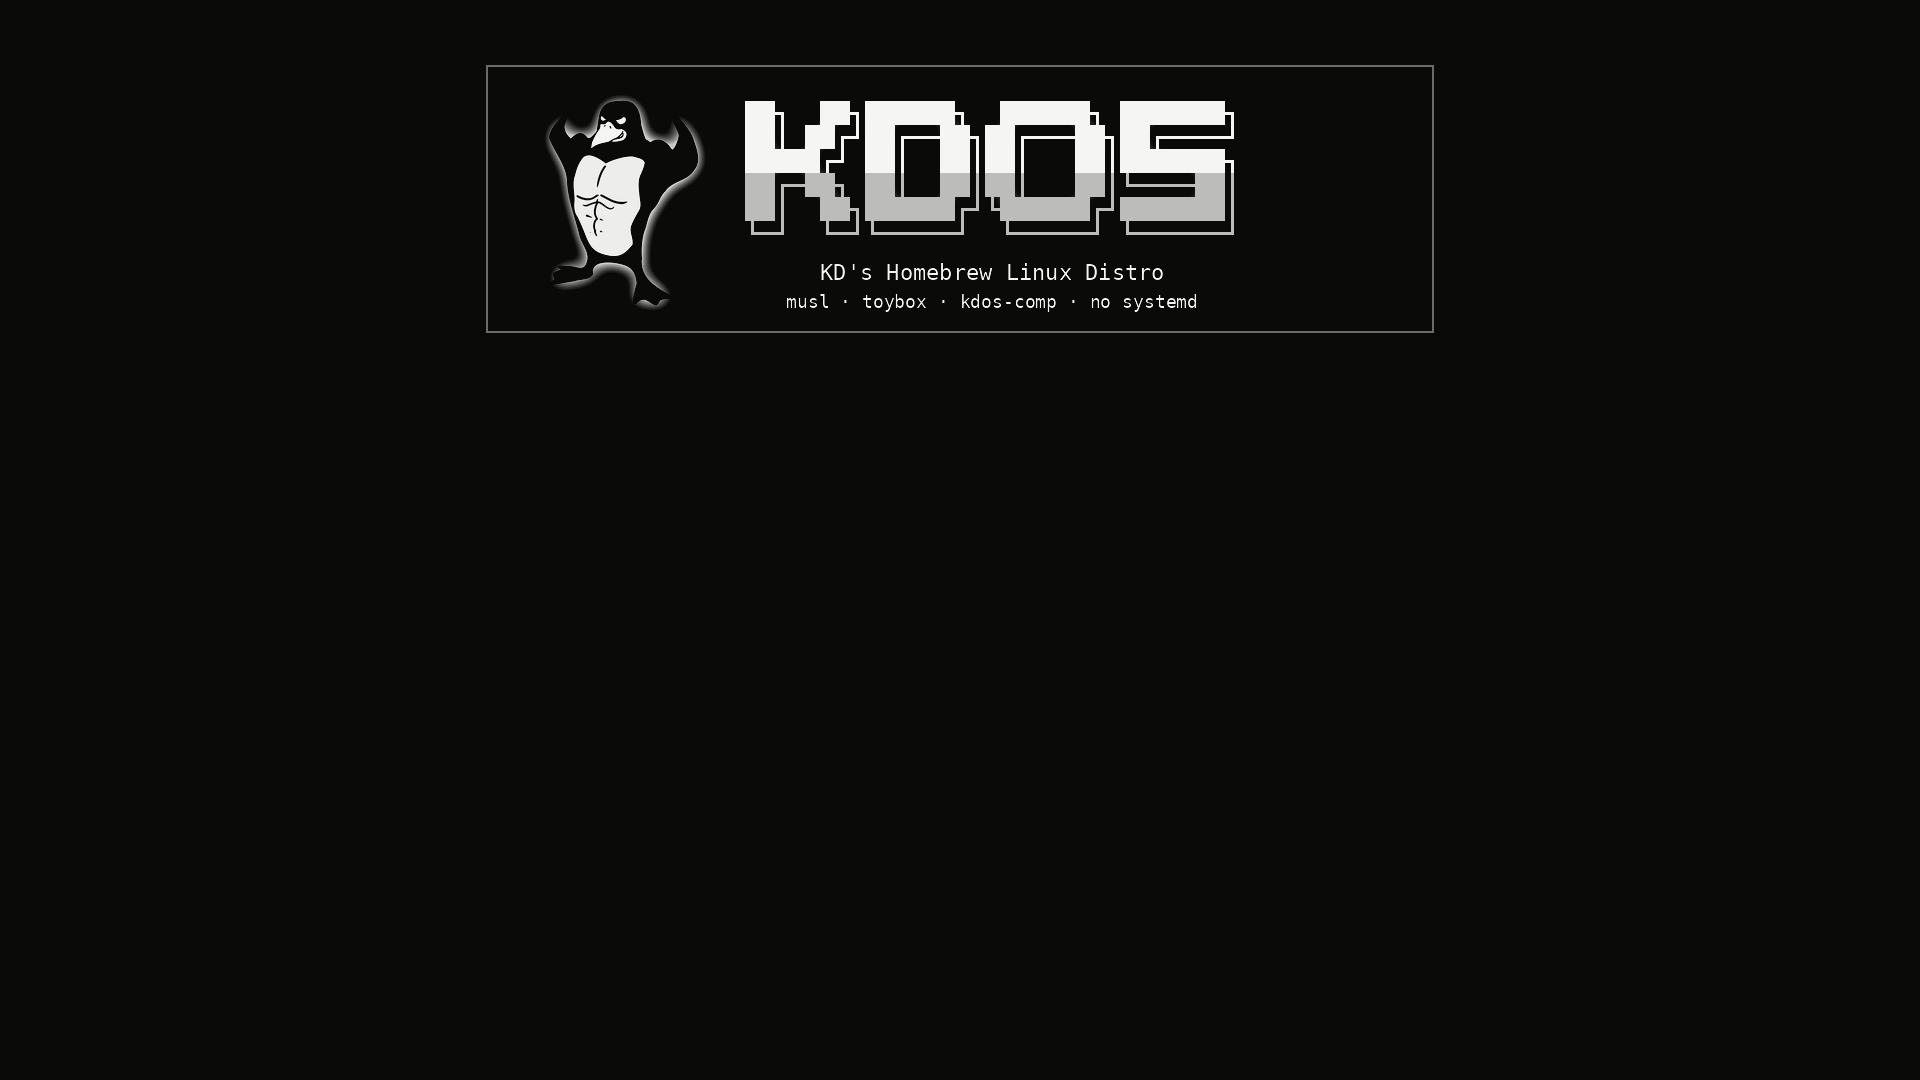
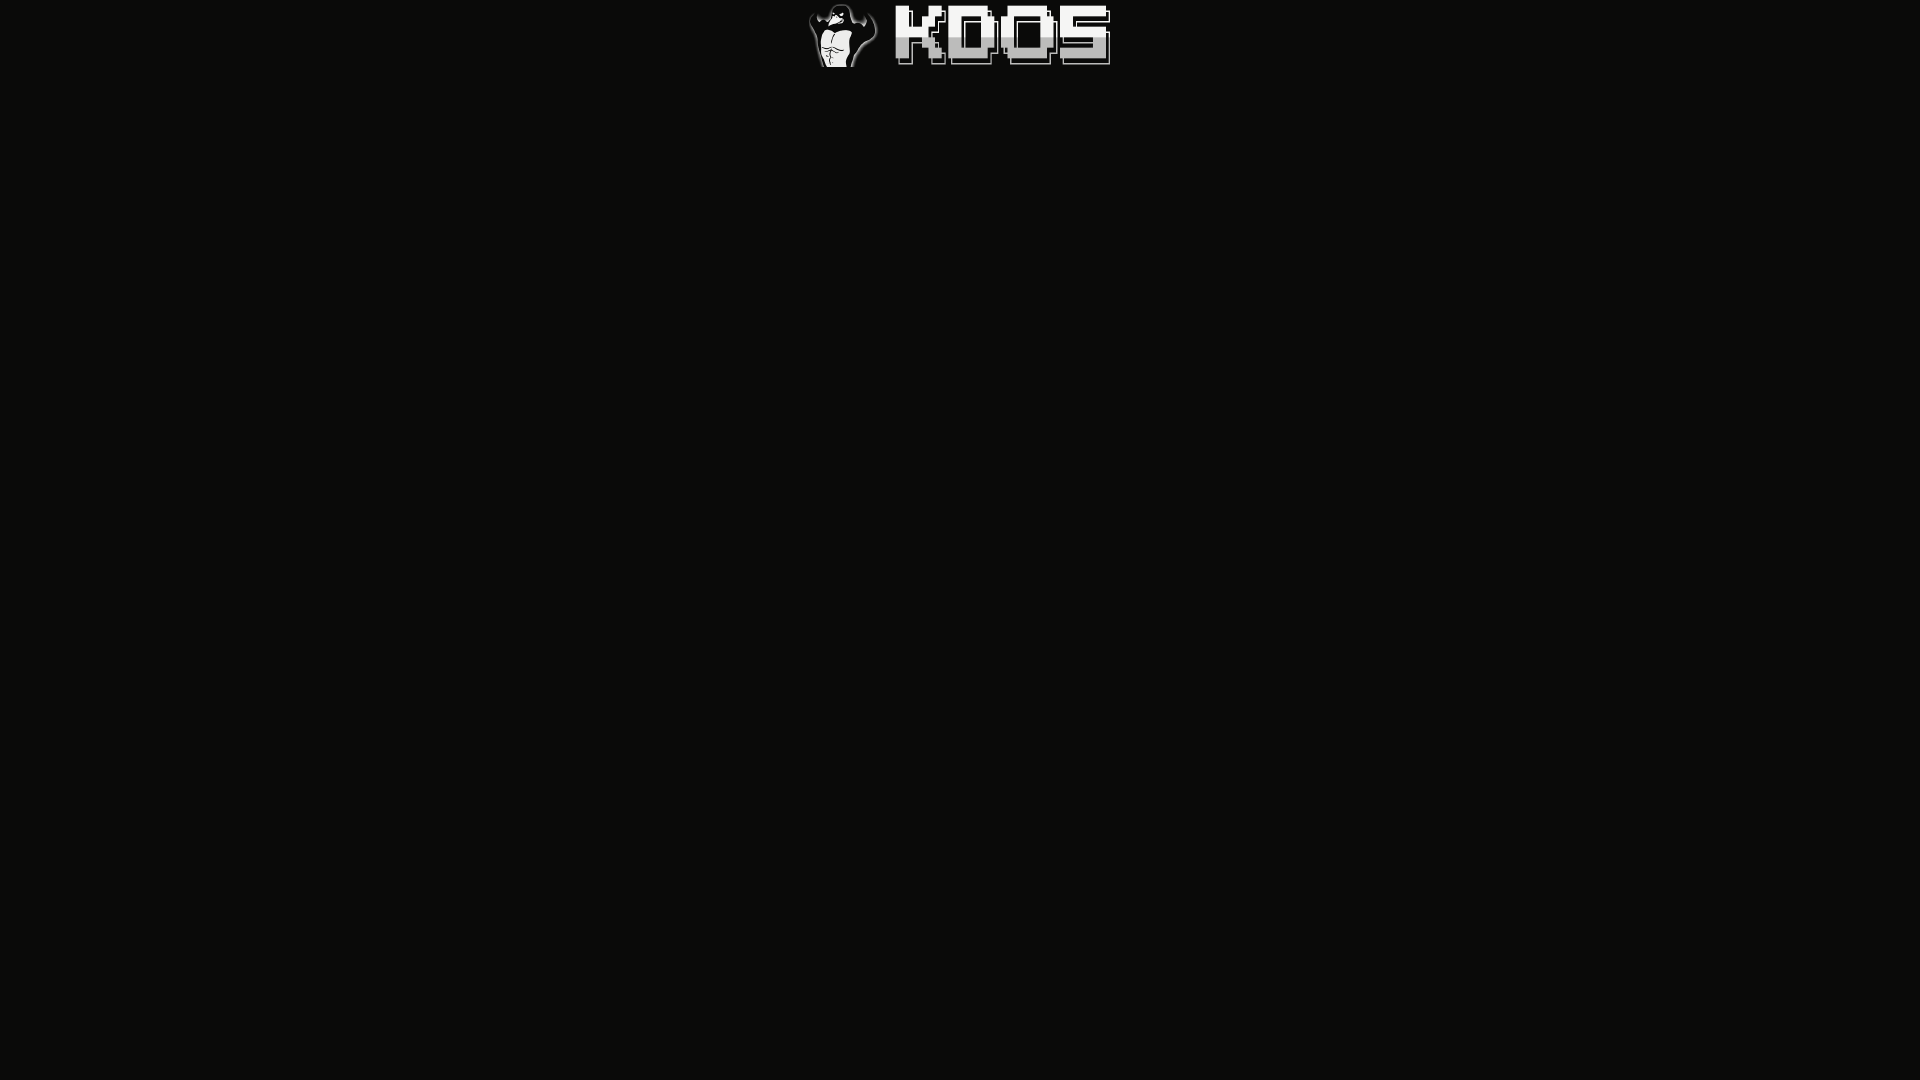
boot fixes

diff --git a/src/packages/kdos-splash/genbackdrop.py b/src/packages/kdos-splash/genbackdrop.py
@@ -31,30 +31,25 @@
 # is one with no hue of its own. Under bone it reads as texture; under phosphor
 # the menu's own green sits on it and it still reads as texture.
 #
-# THE MENU PLATE IS TRANSPARENT, SO THIS PICTURE IS THE WHOLE SCREEN.
-# `term_background` carries a transparency byte and it is set to `ff` — see
-# kcol_limine_conf(). An OPAQUE plate covers everything but `term_margin`, so
-# the wordmark had to squeeze into a hundred-pixel band and the plate's edge
-# drew a visible rectangle around the menu wherever the band was not exactly
-# the plate's colour. Transparent, there is no plate and no rectangle: the
-# entries are drawn straight onto this, and the wordmark can be as large as
-# the space above them allows.
+# THE MENU PLATE IS OPAQUE, SO ONLY THE MARGIN BAND IS EVER SEEN.
+# `term_background` has no transparency and `term_margin` is 100 — see
+# kcol_limine_conf(). Transparent, the artwork could be any size, but Limine
+# prints `linux: Loading kernel …` at the terminal's own origin the moment an
+# entry is picked and those lines then land across it. Opaque, the loading
+# text can only appear inside the plate, and the price is that everything
+# here must fit the margin.
 #
-# WHICH IS WHY THE FIELD IS FLAT. Every gradient, vignette and texture that
-# was here before existed to make a hundred-pixel border look deliberate. With
-# no border there is nothing for them to do, and what they actually
-# contributed was banding in the corners: the wordmark folded onto itself
-# reads as grain at full size and as smudges at a sixth of it. A flat floor
-# cannot band.
+# WHICH FIXES THE HEIGHT AT 6.3% OF THE SCREEN. The wallpaper is `stretched`,
+# so this is a FRACTION while the margin is PIXELS: the artwork has to clear
+# 100 pixels on the tallest screen it will be seen on, not on the one it was
+# drawn for. 6.3% is 68 pixels at 1080 lines and 90 at 1440 — the largest
+# resolution the tree references — and clips above about 1580. There is no
+# placement that both clears the loading text and fits every resolution,
+# which is why the plate is opaque rather than the artwork being moved.
 #
-# THE BANNER IS PLACED AT 1:1 AND NEVER RESAMPLED. It is PIXEL ART — the
-# wordmark is chunky blocks with hard edges — and resampling pixel art with a
-# photographic filter is what makes the blocks come out different widths with
-# soft jagged edges. SIZE is 1920x1080 because that is what `KDOS_RES`
-# defaults to, so on the common screen Limine's `stretched` is 1:1 and every
-# block lands on the pixel it was drawn on. Other resolutions are stretched
-# and soften; nothing can be done about that from here, and an artwork that is
-# right at one resolution beats one that is wrong at all of them.
+# AND THE CAPTIONS ARE DROPPED. At this height the two lines of small print
+# are three pixels tall: including them costs the wordmark a third of its own
+# height to render something nobody can read.
 #
 # THE INK IS THE MAX CHANNEL, NOT THE LUMINANCE. The wordmark is phosphor
 # green — (57, 255, 20) — which Rec.601 puts at 169 while the penguin's white
@@ -64,10 +59,15 @@
 #
 # AND THE BLACK POINT IS 64, WHICH IS WHAT STOPS THE RECTANGLE. The banner has
 # an ambient green glow over the whole image: its corner pixel is (18, 64, 31),
-# not black. Composited onto the floor, that glow lifts the banner's whole area
-# above the field and draws a visible box around it. 64 is measured — it is the
-# 95th percentile of the border ring, and subtracting it takes the border to
-# exactly zero while costing 2% of the strong ink.
+# not black. Composited onto the floor, that glow lifts the artwork's whole
+# area above the field and draws a visible box around it. 64 is measured — it
+# is the 95th percentile of the border ring, and subtracting it takes the
+# border to exactly zero while costing 2% of the strong ink.
+#
+# THE DOWNSCALE IS `BOX`, WHICH IS AREA AVERAGING. The wordmark is pixel art;
+# LANCZOS on it gives blocks of different widths and soft jagged edges, which
+# is what a photographic filter does to hard edges. Averaging whole areas is
+# the right operation going DOWN, and going down is all this does.
 
 # IT IS ACHROMATIC. Limine cannot retint a wallpaper, so this one file sits
 # under every accent and a green penguin would be green under amber.
@@ -98,21 +98,18 @@ SIZE = (1920, 1080)
 # rather than a picture with a terminal sitting on it.
 FLOOR = (10, 10, 9)
 
-# THE WHOLE BANNER, frame and captions and all. It is one designed piece and
-# cropping it to the wordmark threw away the two lines that say what this is.
-CROP = None
+# THE INK OF THE PENGUIN AND THE LETTERS, measured in the 960x280 source.
+# The ruled frame and the two caption lines are left out — see the header.
+CROP = (67, 38, 754, 182)
 
 # What the border ring measures at, and what is subtracted to take it to zero.
-# See the header: below this the banner draws a box on the field.
 BLACK_POINT = 64
 
-# Where the banner's top edge sits, as a fraction of the height. Fractions
-# because the wallpaper is `stretched`, so this holds at every resolution.
-#
-# THE ONE RULE IS THAT NOTHING REACHES THE MIDDLE. Limine centres the entry
-# list vertically whatever the margin is; at 5.5% the banner ends at 31% and
-# the list starts at 50%.
-BAND_TOP = 0.055
+# Where the artwork sits and how tall it is, as fractions of the height.
+# BAND_TOP + BAND_H must stay under `term_margin`/height on the tallest screen
+# the menu will be seen on, or the plate draws over the artwork.
+BAND_TOP = 0.004
+BAND_H = 0.059
 
 # The hero's brightest pixel. Not 255: pure white is structure — an outline, a
 # highlight — everywhere else in this distribution, and a wordmark that reaches
@@ -121,28 +118,24 @@ HERO_PEAK = 235
 
 
 def build() -> Image.Image:
-    src = Image.open(SRC).convert("RGB")
-    if CROP:
-        src = src.crop(CROP)
+    src = Image.open(SRC).convert("RGB").crop(CROP)
 
     # The largest channel, floored at the border's own level and stretched to
-    # the peak — see the header for why each of those three is not the obvious
-    # choice.
-    # int32, NOT int16: the stretch multiplies by HERO_PEAK before dividing,
-    # and 191 * 235 overflows a signed 16-bit lane into negative values that
-    # come back as garbage through the uint8 cast. The peak lands at 181
-    # instead of 245 and the whole banner is dim.
+    # the peak. int32, NOT int16: the stretch multiplies by HERO_PEAK before
+    # dividing, and 191 * 235 overflows a signed 16-bit lane into negative
+    # values that come back as garbage through the uint8 cast — the peak lands
+    # at 181 instead of 245 and the whole banner is dim.
     a = np.array(src).max(axis=2).astype(np.int32)
     a = np.clip(a - BLACK_POINT, 0, None)
     a = (a * HERO_PEAK) // (255 - BLACK_POINT)
     art = Image.fromarray(a.astype(np.uint8), "L")
 
+    bh = max(1, int(SIZE[1] * BAND_H))
+    bw = max(1, round(bh * art.size[0] / art.size[1]))
+    art = art.resize((bw, bh), Image.BOX)
+
     lum = Image.new("L", SIZE, 0)
-    w, h = art.size
-    if w > SIZE[0] or h > SIZE[1]:
-        raise SystemExit("genbackdrop: the banner does not fit the canvas")
-    # PASTED, NOT RESIZED. See the header.
-    lum.paste(art, ((SIZE[0] - w) // 2, int(SIZE[1] * BAND_TOP)))
+    lum.paste(art, ((SIZE[0] - bw) // 2, int(SIZE[1] * BAND_TOP)))
 
     # ADDED TO THE FLOOR RATHER THAN PASTED OVER IT, so the artwork can only
     # ever contribute light and the field stays exactly one colour everywhere

diff --git a/src/libs/libkcolor/kcolor.c b/src/libs/libkcolor/kcolor.c
@@ -113,26 +113,27 @@ int kcol_limine_conf(const KcolScheme *sc, char *buf, size_t cap)
 		"interface_help_colour_bright: %s\n"
 		"backdrop: %s\n"
 		/*
-		 * `ff` — FULLY TRANSPARENT, AND THE PLATE IS GONE.
+		 * `00` — OPAQUE, AND THAT IS WHAT KEEPS THE ARTWORK CLEAN.
 		 *
-		 * The leading byte is transparency. Opaque (`00`) the plate
-		 * covers everything inside `term_margin`, which does two bad
-		 * things at once: the wordmark has to squeeze into the margin
-		 * band, and the plate's edge draws a visible rectangle round
-		 * the menu wherever the band is not exactly the plate's
-		 * colour. Transparent there is no plate and no rectangle —
-		 * the entries are drawn straight onto the wallpaper, and
-		 * genbackdrop.py can give the wordmark a third of the screen.
+		 * The leading byte is transparency. Transparent, there is no
+		 * plate and the wordmark may be any size — but Limine prints
+		 * `linux: Loading kernel …` at the terminal's own origin the
+		 * moment an entry is picked, and with nothing to draw it on
+		 * those lines land across the artwork. Photographed. Opaque,
+		 * the plate covers the whole terminal and the loading text
+		 * can only ever appear inside it.
 		 *
-		 * WHICH IS SAFE ONLY BECAUSE THE WALLPAPER IS FLAT AND DARK
-		 * BEHIND THE TEXT. Limine's own default over a wallpaper is
-		 * `80` against whatever artwork it is given, which is the
-		 * unreadable menu this key was pinned to `00` for. The rule
-		 * that replaces the pin is genbackdrop.py's: nothing the
-		 * artwork draws may reach the middle of the screen, where the
-		 * entry list is centred.
+		 * THE PRICE IS THAT THE ARTWORK MUST FIT `term_margin`, which
+		 * the sixteen-row floor below caps at 100 pixels. There is no
+		 * placement that avoids both: the text's position is in
+		 * PIXELS from the margin and the artwork's is a FRACTION of a
+		 * stretched wallpaper, so a banner that clears the text at one
+		 * resolution runs under it at another.
+		 *
+		 * Limine's own default over a wallpaper is `80`, which is the
+		 * unreadable menu this was first pinned to `00` for.
 		 */
-		"term_background: ff%s\n"
+		"term_background: 00%s\n"
 		"term_foreground: %s\n"
 		"term_palette: %s;%s;%s;%s;%s;%s;%s;%s\n"
 		"term_palette_bright: %s;%s;%s;%s;%s;ffffff;%s;ffffff\n"
@@ -161,13 +162,13 @@ int kcol_limine_conf(const KcolScheme *sc, char *buf, size_t cap)
 		 * it; going higher trades the whole theme on a small panel for
 		 * a larger logo on a big one.
 		 *
-		 * THE GRADIENT IS 0 BECAUSE THERE IS NO PLATE EDGE LEFT TO
-		 * SOFTEN. It blends the backdrop into the terminal's
-		 * background colour over the last few pixels of the margin,
-		 * and a transparent background has none to blend into.
+		 * The gradient softens the plate's edge over the last few
+		 * pixels of the margin, so the backdrop does not stop dead at
+		 * it. It is small because the artwork sits at the TOP of the
+		 * margin and a wide gradient would reach up and dim it.
 		 */
 		"term_margin: 100\n"
-		"term_margin_gradient: 0\n"
+		"term_margin_gradient: 8\n"
 		/* `stretched`, NEVER `centered`. A centred backdrop is drawn at
 		 * its own size in the middle of the screen — which is where the
 		 * menu is — so its shapes land behind the entry text. Stretched,

diff --git a/testing/vnc-shot.py b/testing/vnc-shot.py
@@ -223,6 +223,39 @@ def rfb_hold(host, port, x, y, mask):
     time.sleep(0.15)
 
 
+def rfb_sweep(host, port, x0, y0, x1, y1, n, mask, gap):
+    """A drag at something like a real mouse's REPORT RATE.
+
+    `--drag` and `--press` space their events 150 ms apart, which is about six
+    a second; a mouse on a desk sends between 125 and 1000. A defect that only
+    appears when the events arrive faster than the session can answer them is
+    invisible to both, and "I cannot reproduce it" then means "my hand is
+    slower than theirs", not "it is not there". One connection, one press, `n`
+    interpolated moves `gap` seconds apart, one release.
+    """
+    s, _w, _h, _pf = rfb_handshake(host, port)
+
+    def at(x, y, m):
+        s.sendall(struct.pack(">BBHH", 5, m, x, y))
+
+    at(x0, y0, 0)
+    time.sleep(0.15)
+    at(x0, y0, mask)
+    time.sleep(0.05)
+    for i in range(1, n + 1):
+        at(x0 + (x1 - x0) * i // n, y0 + (y1 - y0) * i // n, mask)
+        if gap:
+            time.sleep(gap)
+    at(x1, y1, mask)
+    time.sleep(0.05)
+    at(x1, y1, 0)
+    # The framebuffer request is what makes the server drain the queue before
+    # the socket closes — see rfb_pointer.
+    s.sendall(struct.pack(">BBHHHH", 3, 1, 0, 0, 1, 1))
+    time.sleep(0.5)
+    s.close()
+
+
 def rfb_drop(host, port, x, y):
     """Let go, and close the drag's connection. A release with no press is a
     no-op rather than an error: a run that ends mid-drag still has to tidy
@@ -484,6 +517,13 @@ def main():
                     help="move the pointer to X,Y (absolute pixels)")
     ap.add_argument("--click", action=Step,
                     help="X,Y[,BTN] — move there and click; BTN 1/2/3")
+    ap.add_argument("--sweep", action=Step,
+                    help="X1,Y1,X2,Y2[,N[,MS[,BTN]]] — a drag delivered at a "
+                         "real mouse's report rate: N interpolated motions MS "
+                         "milliseconds apart with the button held. --drag and "
+                         "--press space their events 150ms apart, so a defect "
+                         "that only appears under a fast hand cannot be "
+                         "reproduced with either. Defaults: N=120, MS=2, BTN=1")
     ap.add_argument("--press", action=Step,
                     help="X,Y[,BTN] — press there and HOLD, on a connection "
                          "that stays open. Every later --press moves the "
@@ -881,6 +921,15 @@ def main():
                 mask = 1 << (btn - 1)
                 rfb_pointer("127.0.0.1", args.vnc_port,
                             [(mx, my, 0), (mx, my, mask), (mx, my, 0)])
+                time.sleep(2.5)
+            elif kind == "sweep":
+                p = value.split(",")
+                x0, y0, x1, y1 = (int(v) for v in p[:4])
+                n = int(p[4]) if len(p) > 4 else 120
+                ms = int(p[5]) if len(p) > 5 else 2
+                btn = int(p[6]) if len(p) > 6 else 1
+                rfb_sweep("127.0.0.1", args.vnc_port, x0, y0, x1, y1,
+                          n, 1 << (btn - 1), ms / 1000.0)
                 time.sleep(2.5)
             elif kind == "press":
                 parts = value.split(",")

diff --git a/docs/kdos/03-architecture/boot-and-init.md b/docs/kdos/03-architecture/boot-and-init.md
@@ -86,21 +86,19 @@ how a stick and the machine installed from it end up different colours, and the 
 is the one nobody is booting that day. The only lines the writers own are the two that name paths
 on the medium — `wallpaper` and `term_font`.
 
-**The menu's plate is TRANSPARENT and its backdrop is stretched, and both are legibility rather
-than taste.** `term_background` carries a leading transparency byte. Opaque, the plate covers
-everything inside `term_margin` — which forces the wordmark into the margin band and draws a
-visible rectangle round the menu wherever the band is not exactly the plate's colour. Set to `ff`
-there is no plate and no rectangle: the entries are drawn straight onto the wallpaper. A
+**The menu's plate is OPAQUE and its backdrop is stretched, and both are legibility rather than
+taste.** `term_background` carries a leading transparency byte. Transparent, there is no plate and
+the artwork may be any size — but **Limine prints `linux: Loading kernel …` at the terminal's own
+origin the moment an entry is picked**, and with no plate to draw it on those lines land across
+the artwork. Photographed. Opaque, the loading text can only ever appear inside the plate. A
 `centered` wallpaper is drawn at its own size in the middle of the screen, which is exactly where
-the menu is, so the style is `stretched`. `term_margin_gradient` is `0` because there is no plate
-edge left to soften. `term_font_scale` is `1x2`: doubling both axes of an 8x16 face fills a
-1080-row screen with four entries.
+the menu is, so the style is `stretched`. `term_font_scale` is `1x2`: doubling both axes of an
+8x16 face fills a 1080-row screen with four entries.
 
-**Limine's own default over a wallpaper is `80`, and that is the unreadable menu** this key used
-to be pinned to `00` for. What replaces the pin is a rule on the artwork instead: **nothing
-`genbackdrop.py` draws may reach the middle of the screen**, because Limine centres the entry
-list vertically whatever the margin is. The hero ends at 16.5% of the height and both it and the
-entries scale with the screen, so clearing it once clears it at every resolution.
+**There is no placement that avoids the loading text at every resolution**, which is why the plate
+is opaque rather than the artwork being moved. The text's position is in PIXELS from the margin;
+the artwork's is a FRACTION of a stretched wallpaper. A banner that clears the text at 1080 lines
+runs underneath it at 720.
 
 **A margin that leaves the terminal under SIXTEEN ROWS makes Limine abandon the graphical terminal
 altogether**, and that is the ceiling `term_margin` is set against. Measured by booting one ESP
@@ -115,31 +113,31 @@ branding, so the key would print "KDOS" in a font directly under a picture of it
 key out does not remove it. Limine falls back to its own default and prints `Limine <version>
 (x86-64, UEFI)` in its own cyan. Photographed.
 
-**The artwork is the whole banner on a flat field, placed at 1:1 and never resampled.**
-`genbackdrop.py` lays `kdos-banner.png` — frame, penguin, wordmark and both caption lines —
-straight onto a floor of the scheme's `deep`. Three things about it are measured rather than
-chosen, and each fixes something that looked broken:
+**The artwork is the penguin and the wordmark, sized to fit the margin.** `genbackdrop.py` lays
+them on a floor of the scheme's `deep`. Four things about it are measured rather than chosen, and
+each fixes something that looked broken:
 
-- **1:1, because it is PIXEL ART.** The wordmark is chunky blocks with hard edges, and resampling
-  that with a photographic filter gives blocks of different widths and soft jagged edges. The
-  canvas is 1920x1080 because that is what `KDOS_RES` defaults to, so `stretched` is 1:1 on the
-  common screen and every block lands on the pixel it was drawn on. Other resolutions stretch and
-  soften; an artwork that is right at one resolution beats one that is wrong at all of them.
+- **6.3% of the height, because the margin is 100 pixels.** The wallpaper is `stretched`, so the
+  artwork scales with the screen while the margin does not: it has to clear 100 pixels on the
+  tallest screen it will be seen on. 6.3% is 68 pixels at 1080 lines and 90 at 1440 — the largest
+  resolution the tree references — and is covered by the plate above about 1580.
+- **The captions are dropped.** At this height the two lines of small print are three pixels tall;
+  including them costs the wordmark a third of its own height to render something illegible.
 - **The ink is the MAX CHANNEL, not the luminance.** The wordmark is phosphor green — `(57,255,20)`
   — which Rec.601 puts at 169 while the penguin's white lands at 249, so a plain greyscale
-  conversion leaves the letters visibly duller than the mascot beside them. The largest channel
-  puts both at the top of the range, which is what "achromatic" was supposed to mean.
+  conversion leaves the letters visibly duller than the mascot beside them.
 - **The black point is 64, and that is what stops the rectangle.** The banner carries an ambient
   green glow over its whole area — its corner pixel is `(18,64,31)`, not black — so composited
   onto the floor it lifts its own area above the field and draws a box around itself. 64 is the
   95th percentile of the border ring: subtracting it takes the border to exactly zero at a cost of
   2% of the strong ink.
 
-There is no vignette and no texture. Both existed to make a hundred-pixel border look deliberate,
-and with no border what they contributed was banding in the corners, because a wordmark folded
-onto itself reads as grain at full size and as smudges at a sixth of it. A flat floor cannot band.
-It is a host script whose output is committed, the arrangement `genbanner.py` and `genlogo.py`
-already use.
+The downscale is `BOX` — area averaging — because the wordmark is pixel art and a photographic
+filter on hard edges gives blocks of different widths with soft jagged edges. There is no vignette
+and no texture: both existed to make the border look deliberate, and what they contributed was
+banding in the corners, because a wordmark folded onto itself reads as grain at full size and as
+smudges at a sixth of it. A flat floor cannot band. It is a host script whose output is committed,
+the arrangement `genbanner.py` and `genlogo.py` already use.
 
 **`kdos-bootctl theme <accent>` restamps an installed machine in place.** It rewrites only the keys
 the theme owns and leaves every entry, `cmdline`, `default_entry` and the A/B state alone — a
